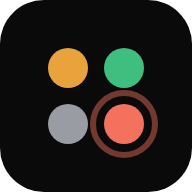
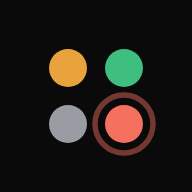
fix(brand): give the mark a disc and a maskable variant
0.29.0 renamed the wordmark but left two pieces of the old identity in place:
favicon.ico was still the inherited collie art, and the mark was a rounded
square sitting inside the header's rounded-full badge, which showed a grey rim
between the two shapes.

Split the mark by what masks it. favicon.svg is now a disc, drawn at the full
badge size so it meets the ring with no gap, and sized for a browser tab.
icon-maskable.svg is full-bleed for the install icons, where the launcher
applies its own crop — circle, squircle or teardrop — and a transparent corner
would show through as a notch. The dots sit at ~74% of the half-width, inside
the 80% maskable safe zone, measured rather than eyeballed.

The PNG favicons render from the full-bleed source too: rasterising the disc
flattens its corners to white, which framed the dark mark in a white square on
a dark browser theme.

Constraint: Chrome's rasteriser flattens transparency to white, so a disc source cannot produce a PNG favicon
Rejected: One square icon for every surface | a launcher circle-crop clips the corners and the header badge shows a grey rim
Rejected: One disc icon for every surface | a maskable icon must paint every pixel or the mask corners fall through to transparency
Confidence: high
Scope-risk: low
Reversibility: clean
Directive: Re-measure the content radius against the 80% safe zone before moving any dot outward
[…]

diff --git a/web/src/components/collie-home.tsx b/web/src/components/collie-home.tsx
@@ -41,9 +41,10 @@ export function CollieHome({ onHome, trouble, lost = false, wordmark = false, cl
         className,
       )}
     >
-      {/* A whitesmoke ring frames the mark so it reads as a deliberate badge against the dark header
-          (the collie art is transparent, so it otherwise floats). The ring wraps every state so the
-          frame doesn't pop in/out as the connection settles out of the gallop. */}
+      {/* A whitesmoke ring frames the mark so it reads as a deliberate badge against the dark header.
+          The ring wraps every state so the frame doesn't pop in/out as the connection settles out of
+          the gallop. The mark is an opaque disc drawn at the full badge size, so it meets the ring
+          with no tinted gap; the tint still backs the gallop sprite, whose art is transparent. */}
       <span className="grid size-10 shrink-0 place-items-center overflow-hidden rounded-full bg-zinc-500/40 ring-1 ring-[whitesmoke]/60">
         {gallop ? (
           <DogGallop running size="2rem" />
@@ -52,11 +53,11 @@ export function CollieHome({ onHome, trouble, lost = false, wordmark = false, cl
           // muted (grayscale + dimmed) to read asleep/inactive, in the same box (no gallop). NOT a
           // paused sprite: a gallop rest-frame is a full-stretch mid-stride pose that looks frozen
           // mid-run — the "stuck mid-run" bug. Mirrors the boot splash's not-connected state.
-          <img src="/favicon.svg" alt="" className="size-8 opacity-40 grayscale" />
+          <img src="/favicon.svg" alt="" className="size-10 opacity-40 grayscale" />
         ) : (
-          // Live rest state = the original app icon (bigger, detailed collie) at full color, same box
-          // as the sprite so the mark doesn't resize when it settles. Larger than the agent logo.
-          <img src="/favicon.svg" alt="" className="size-8" />
+          // Live rest state = the app mark at full colour, filling the badge so it doesn't resize
+          // when it settles out of the gallop. Larger than the agent logo.
+          <img src="/favicon.svg" alt="" className="size-10" />
         )}
       </span>
       {wordmark && <span className="text-lg font-semibold tracking-tight">setnet</span>}

diff --git a/web/vite.config.ts b/web/vite.config.ts
@@ -140,10 +140,12 @@ export default defineConfig({
         background_color: "#0a0a0a",
         theme_color: "#0a0a0a",
         icons: [
-          // The 192/512 are safe-zone-padded, so they serve as both the regular ("any") install
-          // icon and the Android adaptive ("maskable") icon. (favicon.svg is intentionally NOT a
-          // manifest icon: it's a low-res raster-in-svg for the browser tab only — declaring it
-          // sizes:"any" would let an installer pick it and render the install icon blurry.)
+          // The 192/512 are rendered from icon-maskable.svg: full-bleed, with the mark inside the
+          // 80%-diameter safe zone, so they serve as both the regular ("any") install icon and the
+          // Android adaptive ("maskable") one whatever shape the launcher crops to. (favicon.svg is
+          // intentionally NOT a manifest icon: it is the disc variant, sized for the browser tab and
+          // the header badge. Declaring it sizes:"any" would let an installer pick a disc and leave
+          // the mask's corners transparent.)
           { src: "/web-app-manifest-192x192.png", sizes: "192x192", type: "image/png", purpose: "any maskable" },
           { src: "/web-app-manifest-512x512.png", sizes: "512x512", type: "image/png", purpose: "any maskable" },
         ],

diff --git a/CHANGELOG.md b/CHANGELOG.md
@@ -6,6 +6,20 @@ All notable changes to setnet are recorded here. The format follows
 `version` in `herdr-plugin.toml`, `package.json`, and `web/package.json` (enforced by
 `scripts/check-version.sh`). See [`CLAUDE.md`](./CLAUDE.md) → *Versioning* for the bump policy.
 
+## [0.29.1] - 2026-08-15
+
+### Fixed
+
+- **The app icon is setnet's, and it fits a circle.** 0.29.0 renamed the wordmark but shipped the
+  inherited collie art in `favicon.ico` and left the mark a rounded square inside the header's
+  rounded-full badge, so a grey rim showed between the two
+- **The mark now comes in two shapes, because two things mask it differently.** `favicon.svg` is a
+  disc that fills the badge edge to edge; `icon-maskable.svg` is full-bleed for the install icons,
+  where a launcher crops to a circle, squircle or teardrop and a transparent corner would show
+  through. Content sits at ~74% of the half-width, inside the 80% maskable safe zone
+- **The PNG favicons render from the full-bleed source.** Rasterising the disc flattened its corners
+  to white, which framed the dark mark in a white square on a dark browser theme
+
 ## [0.29.0] - 2026-08-15
 
 The fork takes its own name. Nothing an operator runs changes: the plugin id stays `herdr.collie`,
